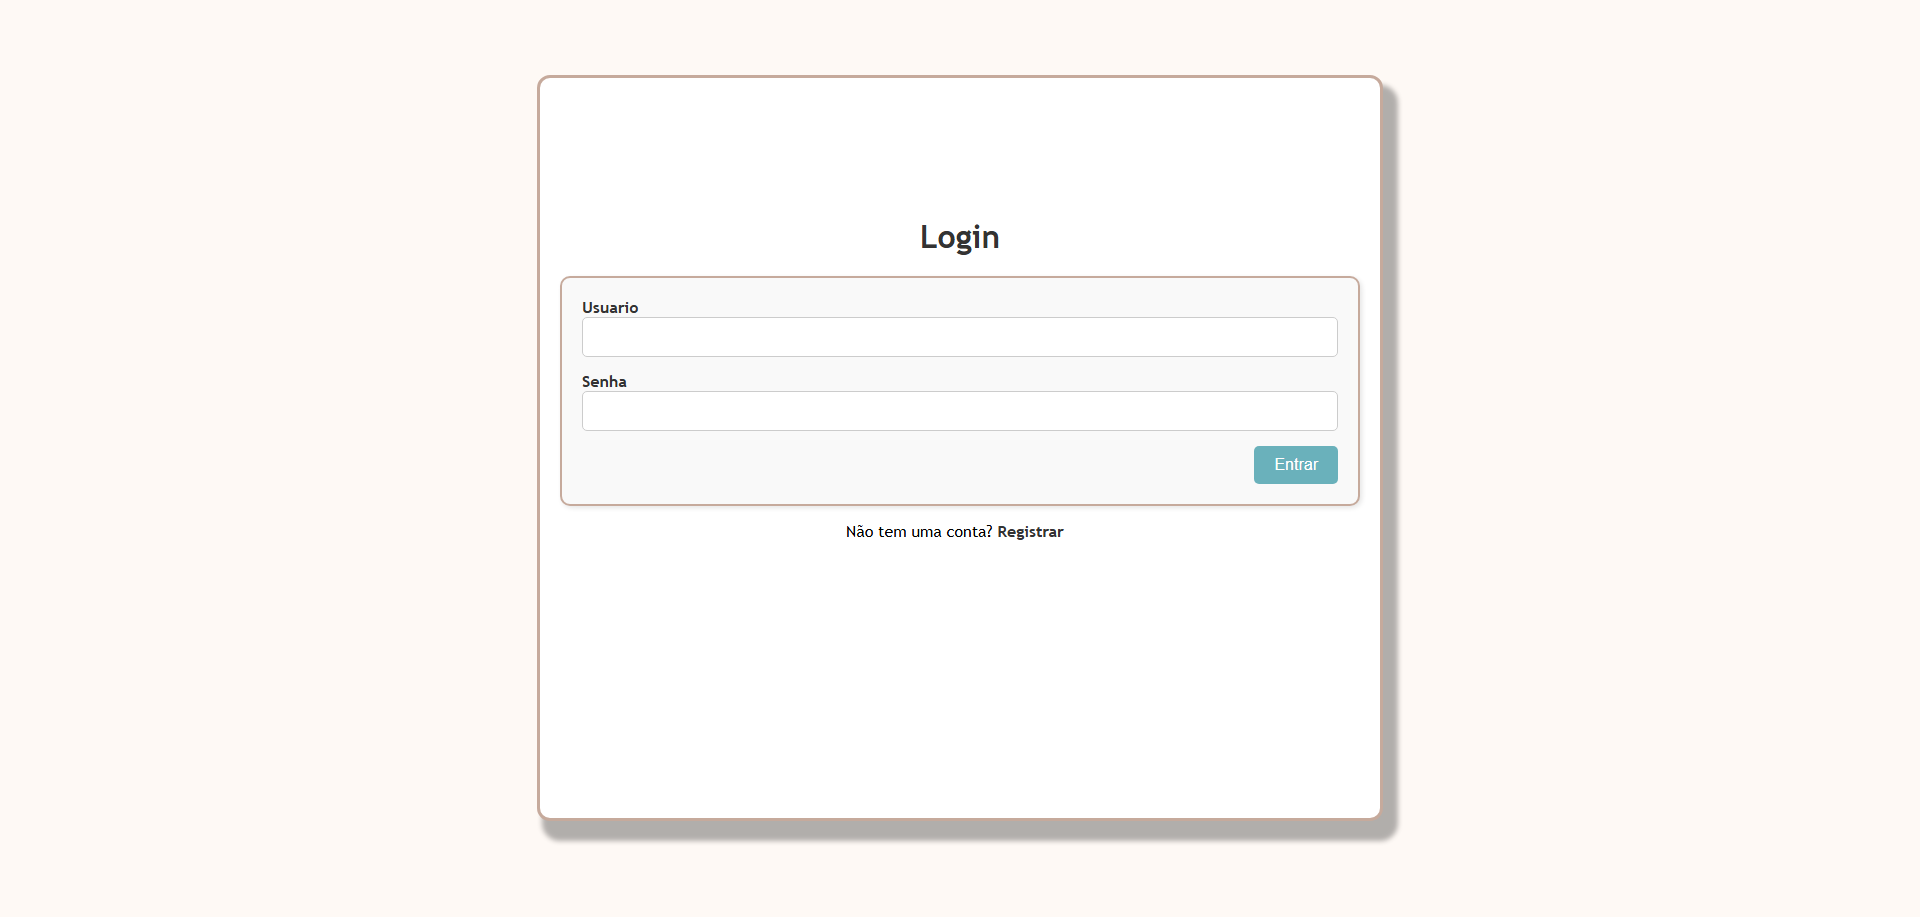
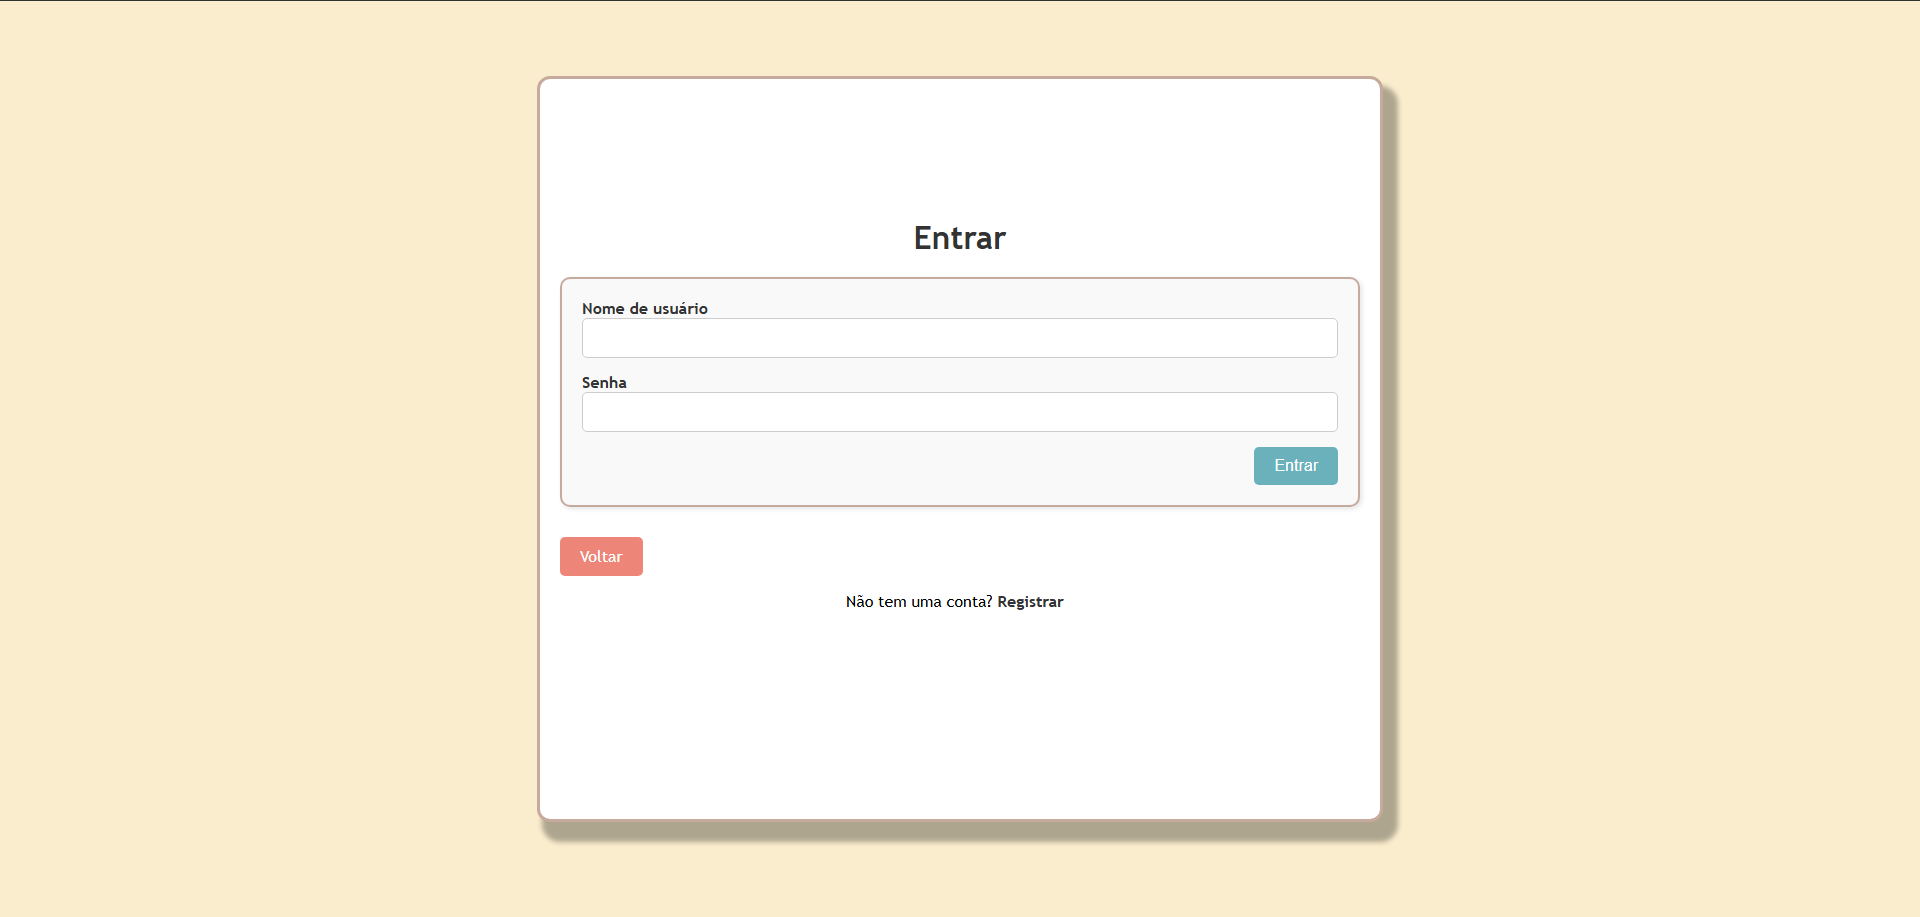
Se aplicado, esse commit adiciona modificacoes na documentacao para melhor visualizacao, altera os passos para rodar utilizando docker, e altera as imagens de demonstracao para imagens mais atuais

diff --git a/README.md b/README.md
@@ -2,27 +2,29 @@
 ![Ruby](https://img.shields.io/badge/ruby-%23CC342D.svg?style=for-the-badge&logo=ruby&logoColor=white)
 ![Rails](https://img.shields.io/badge/rails-%23CC0000.svg?style=for-the-badge&logo=ruby-on-rails&logoColor=white)
 ![SQLite](https://img.shields.io/badge/sqlite-%2307405e.svg?style=for-the-badge&logo=sqlite&logoColor=white)
+![Postgres](https://img.shields.io/badge/postgresql-4169e1?style=for-the-badge&logo=postgresql&logoColor=white)
+![Docker](https://img.shields.io/badge/docker-257bd6?style=for-the-badge&logo=docker&logoColor=white)
 
 ## Sumário
-- [Visão Geral](#visão-geral)
-- [Principais Funcionalidades](#principais-funcionalidades)
-- [Arquitetura](#arquitetura)
-- [Estrutura do Projeto](#estrutura-do-projeto)
-- [Rotas](#rotas)
-- [Padrão de Commit](#padrão-de-commit)
-- [Stacks Utilizadas](#stacks-utilizadas)
-- [Pré-requisitos](#pré-requisitos)
-- [Como Rodar Localmente](#como-rodar-localmente)
-- [Como rodar utilizando docker](#como-rodar-utilizando-docker)
-- [Executar os Testes](#executar-os-testes)
-- [Demonstração](#demonstração)
+- 🌍 [Visão Geral](#🌍-visão-geral)
+- ✨ [Principais Funcionalidades](#✨-principais-funcionalidades)
+- 🏗 [Arquitetura](#🏗-arquitetura)
+- 🛤 [Rotas](#🛤-rotas)
+- 📝 [Padrão de Commit](#📝-padrão-de-commit)
+- 🛠 [Stacks Utilizadas](#🛠-stacks-utilizadas)
+- 📋 [Pré-requisitos](#📋-pré-requisitos)
+- 💻 [Como Rodar Localmente](#💻-como-rodar-localmente)
+- 🐳 [Como rodar utilizando docker](#🐳-como-rodar-utilizando-docker)
+- 🐘 [Como rodar utilizando postgres ao inves de sqlite](#🐘-como-rodar-utilizando-postgres-ao-inves-de-sqlite)
+- ✅ [Executar os Testes](#✅-executar-os-testes)
+- 🎥 [Demonstração](#🎥-demonstração)
 
-# Visão geral
+# 🌍-Visão geral
 A aplicação ToDoList foi criada sendo a solução do case técnico da vaga de estágio da V360, permite ao usuário criar, visualizar e gerenciar suas tarefas organizadas em listas de tarefas. Cada tarefa pode ser classificada por prioridade, e as listas podem ser visualizadas de maneira organizada, proporcionando uma interface simples e intuitiva para controle de tarefas diárias.
 
 
 
-## Principais funcionalidades
+# ✨-Principais funcionalidades
 - Realizar de registro, login e logout de usuários;
 - Usuários podem criar, atualizar e apagar listas;
 - Usuários podem criar, atualizar e apagar itens dentro das listas;
@@ -30,7 +32,7 @@ A aplicação ToDoList foi criada sendo a solução do case técnico da vaga de 
 - As listas de itens são ordenadas levando em conta as prioridade definidas na criação do item;
 - Cada item receberá a cor da sua prioridade;
 
-## Arquitetura
+# 🏗 Arquitetura
 O projeto segue o padrão MVC (Model-View-Controller), que organiza o código em três camadas principais:
 
 - Model: Gerencia a lógica de negócios e a interação com o banco de dados. Exemplos:
@@ -49,49 +51,7 @@ O projeto segue o padrão MVC (Model-View-Controller), que organiza o código em
     - ```TodoListsController```: Gerencia as ações relacionadas às listas de tarefas.
     - ```SessionsController```: Gerencia login e logout.
 
-## Estrutura do projeto
-Abaixo está a estrutura principal do projeto e uma breve descrição de cada diretório/arquivo:
-
-````markdown
-ToDoList/
-├── app/
-│   ├── assets/                # Arquivos estáticos (CSS, JavaScript, imagens)
-│   │   ├── config/            # Configuração do pipeline de assets
-│   │   ├── images/            # Imagens usadas na aplicação
-│   │   ├── javascripts/       # Arquivos JavaScript personalizados
-│   │   └── stylesheets/       # Arquivos CSS personalizados
-│   ├── controllers/           # Controladores da aplicação (lógica de rotas)
-│   │   ├── todo_lists_controller.rb  # Controlador para listas de tarefas
-│   │   ├── todo_items_controller.rb  # Controlador para itens das listas
-│   │   └── sessions_controller.rb   # Controlador para login/logout
-│   ├── models/                # Modelos da aplicação (lógica de dados)
-│   │   ├── user.rb            # Modelo para usuários
-│   │   ├── todo_list.rb       # Modelo para listas de tarefas
-│   │   └── todo_item.rb       # Modelo para itens das listas
-│   ├── views/                 # Views da aplicação (HTML renderizado)
-│   │   ├── layouts/           # Layouts compartilhados entre as views
-│   │   ├── todo_lists/        # Views relacionadas às listas de tarefas
-│   │   ├── todo_items/        # Views relacionadas aos itens das listas
-│   │   └── sessions/          # Views relacionadas ao login/logout
-│   └── helpers/               # Helpers para views
-├── bin/                       # Scripts executáveis (ex.: iniciar o servidor)
-├── config/                    # Configurações da aplicação e rotas
-│   ├── routes.rb              # Arquivo de rotas da aplicação
-│   └── locales/               # Arquivos de tradução (ex.: pt-BR.yml)
-├── db/                        # Arquivos relacionados ao banco de dados
-│   ├── migrate/               # Arquivos de migração do banco de dados
-│   └── schema.rb              # Estrutura atual do banco de dados
-├── test/                      # Testes automatizados
-│   ├── controllers/           # Testes para os controladores
-│   ├── models/                # Testes para os modelos
-│   └── fixtures/              # Dados de exemplo para os testes
-├── Gemfile                    # Lista de dependências do projeto
-├── Gemfile.lock               # Versões exatas das dependências instaladas
-├── README.md                  # Documentação do projeto
-└── config.ru                  # Arquivo de configuração para o Rack
-````
-
-## Rotas
+# 🛤 Rotas
 | Caminho                                                | Verbo HTTP | Controller#Action       | Descrição                |
 | ------------------------------------------------------ | ---------- | ----------------------- | ------------------------ |
 | `/signup`                                              | GET        | `Users#new`             | Formulário de cadastro   |
@@ -103,7 +63,7 @@ ToDoList/
 | `/todo_lists/:id`                                      | GET        | `TodoLists#show`        | Detalhes da lista        |
 | `/todo_lists/:todo_list_id/todo_items/:id/toggle_done` | PATCH      | `TodoItems#toggle_done` | Alterna status da tarefa |
 
-## Padrão de Commit
+# 📝 Padrão de Commit
 - O projeto segue um padrão para as mensagens de commit, com o objetivo de manter o histórico do repositório organizado e fácil de entender. Utilize o seguinte formato:
 
 - Estrutura da mensagem:
@@ -118,117 +78,123 @@ Exemplos:
 - Remove código obsoleto do controlador de sessões.
 
 
-## Stacks utilizadas
+# 🛠 Stacks utilizadas
 - Ruby on rails
 - SQLite
 - Minitest
 - HTML
 - CSS
 
-## Pré-requisitos
+# 📋 Pré-requisitos
 - Ruby 3.2.0 ou superior
 - Rails 7.1.0 ou superior
 - SQLite3
 - Git
 
-## Como rodar localmente:
+# 💻 Como rodar localmente:
 
-1- Clone o repositório:  
-```
-git clone https://github.com/guigutox/ToDoList_V360.git
-```
+1. Clone o repositório:  
+    ```
+    git clone https://github.com/guigutox/ToDoList_V360.git
+    ```
 
-2- Entre no diretório que foi criado:
-```
-cd ToDoList_v360
-```
+2. Entre no diretório que foi criado:
+    ```
+    cd ToDoList_v360
+    ```
 
-3- Instalar as dependencias:
-```
-bundle install
-```
+3. Instalar as dependencias:
+    ```
+    bundle install
+    ```
 
-4- Criar o banco de dados SQLITE
-```
-bin/rails db:setup
-```
+4. Criar o banco de dados SQLITE
+    ```
+    bin/rails db:setup
+    ```
 
-5- Rodar a aplicação:
-```
-bin/rails server
-```
+5. Rodar a aplicação:
+    ```
+    bin/rails server
+    ```
 
-## Como rodar utilizando docker
+# 🐳 Como rodar utilizando docker
 
-1- É necessário ter o docker instalado na maquina
+1. É necessário ter o docker instalado na maquina
 
-2- Entre no diretório do projeto
+2. Entre no diretório do projeto
 
-3- Construa a imagem Docker a partir do `Dockerfile`:
-```
-docker run -p 3000:3000 --name app-container app-ruby
-```
+3. Construa a imagem Docker a partir do `Dockerfile`:
+    ```
+    docker build -t app-ruby .
+    ```
 
-3- Rode o container com a imagem criada:
-```
- docker run -e SECRET_KEY_BASE=dummy_key -e RAILS_ENV=development -p 3000:3000 --name minha-app-container app-ruby
-```
+4. Rode o container com a imagem criada:
+    ```
+    docker run -e SECRET_KEY_BASE=dummy_key -e RAILS_ENV=development -p 3000:3000 --name minha-app-container app-ruby
+    ```
 
-5- Acesse a partir da url: http://localhost:3000
+5. Acesse a partir da url: http://localhost:3000
 
-## Como rodar utilizando postgres ao inves de sqlite
+# 🐘 Como rodar utilizando postgres ao inves de sqlite
 
-1- Entre no projeto
+1. Entre no projeto
 
-2- Mude de branch para a branch postgress, utilizando:
-``` 
-git checkout postgress
-```
+2. Mude de branch para a branch postgress, utilizando:
+    ``` 
+    git checkout postgress
+    ```
 
-3- Estando na branch utilize o comando no terminal:
+3. Estando na branch utilize o comando no terminal:
 
-No Windows:
-```copy .env.example .env```
+    No Windows:
+    ```copy .env.example .env```
 
-No linux e macOs:
-```cp .env.example .env```
+    No linux e macOs:
+    ```cp .env.example .env```
 
-4- Entre no arquivo .env e mude as variáveis
+4. Entre no arquivo .env e mude as variáveis
 
-5- Agora é necessario instalar a gem do postgress, no terminal use:
+5. Agora é necessario instalar a gem do postgress, no terminal use:
 
-```
-bundle install
-```
+    ```
+    bundle install
+    ```
 
-6- Agora vamos buildar o container docker, no terminal use:
-```
-docker compose build
-```
+6. Agora vamos buildar o container docker, no terminal use:
+    ```
+    docker compose build
+    ```
 
-7- Suba o container utilizando o comando no terminal:
-```
-docker compose up -d
-```
+7. Suba o container utilizando o comando no terminal:
+    ```
+    docker compose up -d
+    ```
 
-8- Agora, basta utilizar o comando abaixo para subir a aplicação e agora estará funcionando com postgres:
+8. Utilize o migrate para criar as tabelas dentro do postgres:
+    ```
+    rails db:create db:migrate
+    ```
 
-```
-bin/rails server
-```
+9. Agora, basta utilizar o comando abaixo para subir a aplicação e agora estará funcionando com postgres:
+
+    ```
+    bin/rails server
+    ```
 
 
-## Executar os testes
-1- Abra o terminal
+# ✅ Executar os testes
+1. Abra o terminal
 
-2- Entre no diretório do projeto
+2. Entre no diretório do projeto
 
-3- Rode o seguinte comando:
-```
-bin/rails test
-```
+3. Rode o seguinte comando:
+    ```
+    bin/rails test
+    ```
 
-## Demonstração
+# 🎥 Demonstração
+![Tela de Inicio](screenshots/inicio.png)
 ![Tela de Login](screenshots/login.png)
 ![Tela de registro](screenshots/registrar.png)
 ![Lista de Tarefas](screenshots/listas.png)
